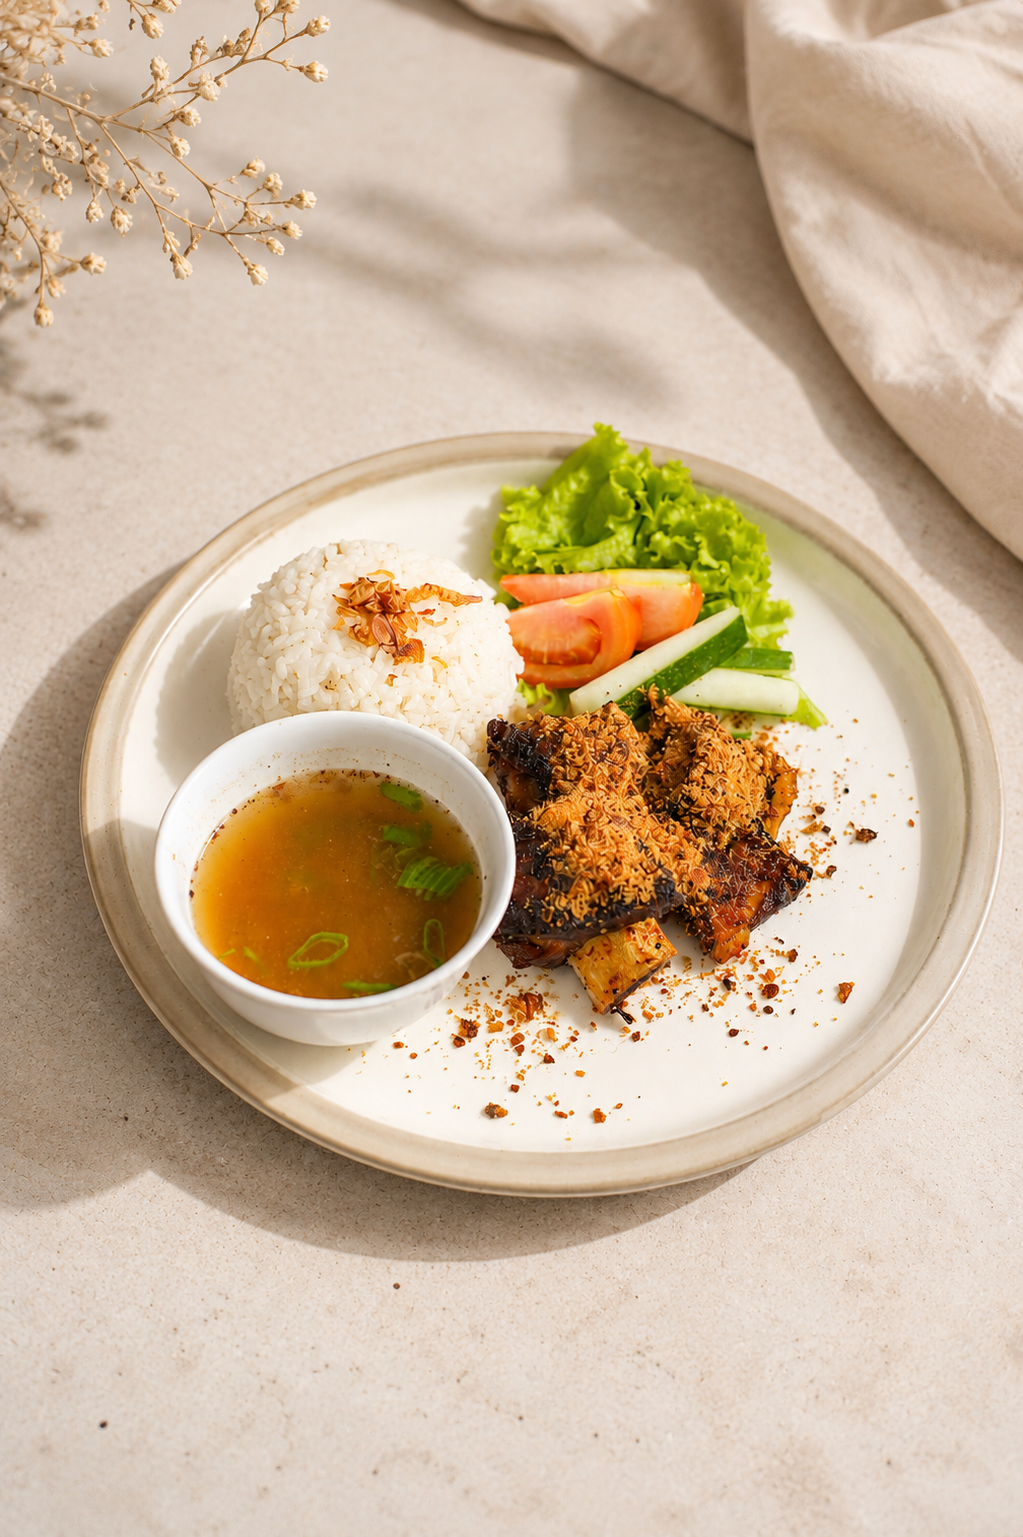
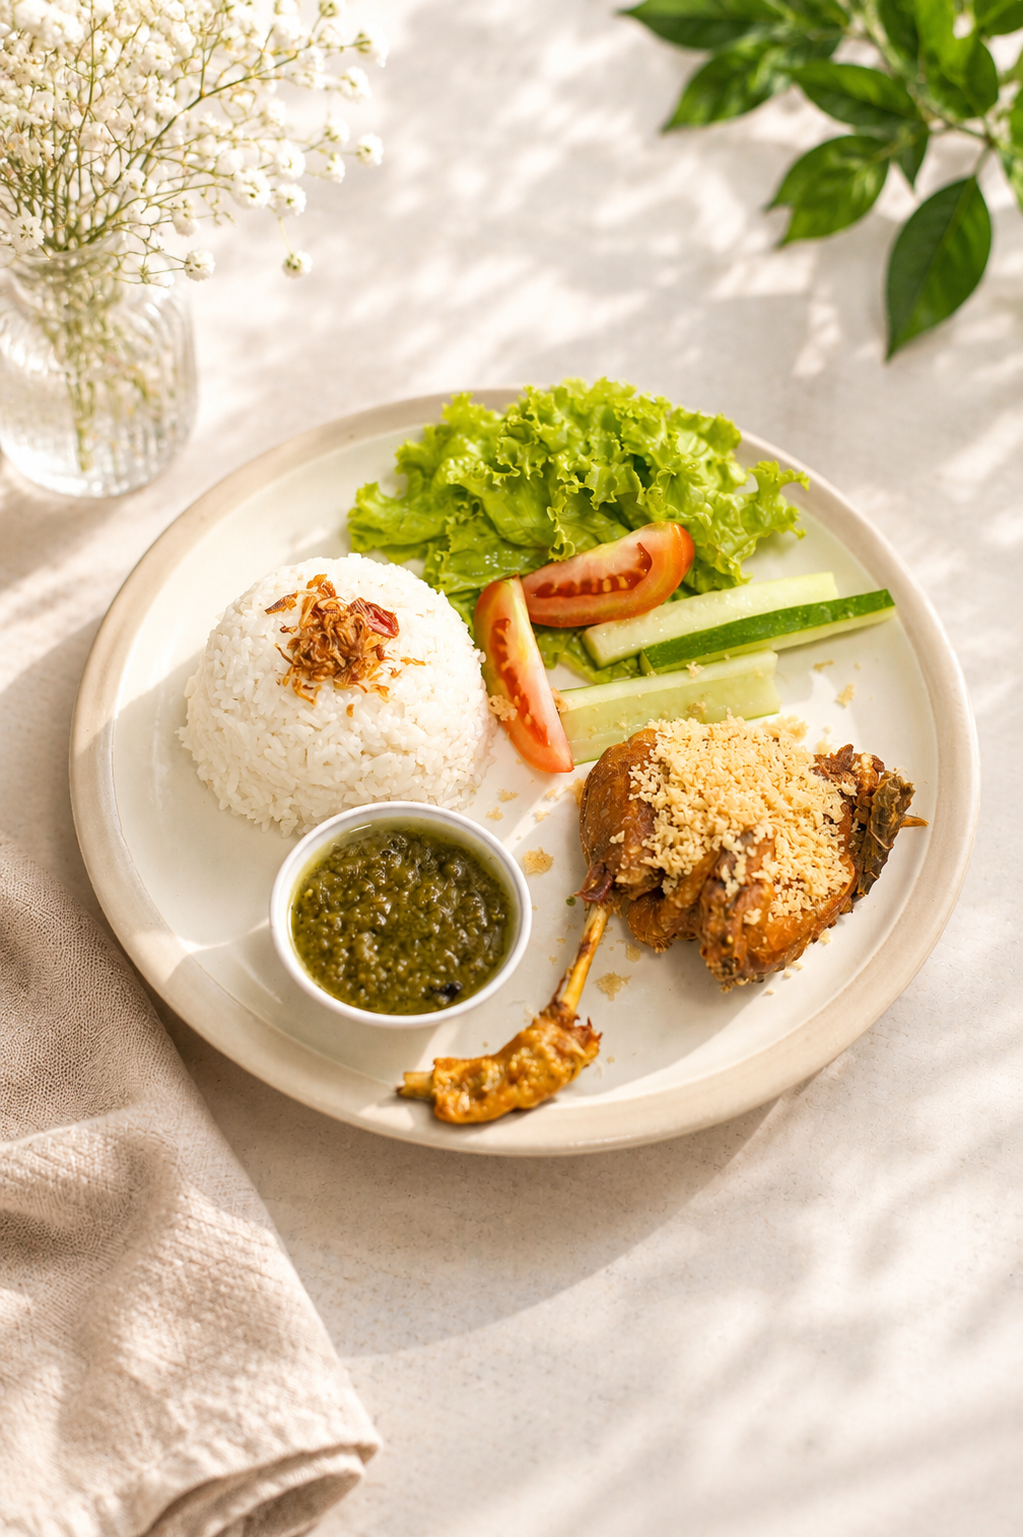
update

diff --git a/application/config/database.php b/application/config/database.php
@@ -9,7 +9,7 @@ $db['default'] = array(
 	'dsn'	=> '',
 	'hostname' => '127.0.0.1',
 	'username' => 'root',
-	'password' => '29011989',
+	'password' => '',
 	'database' => 'db_finance',
 	'dbdriver' => 'mysqli',
 	'dbprefix' => '',